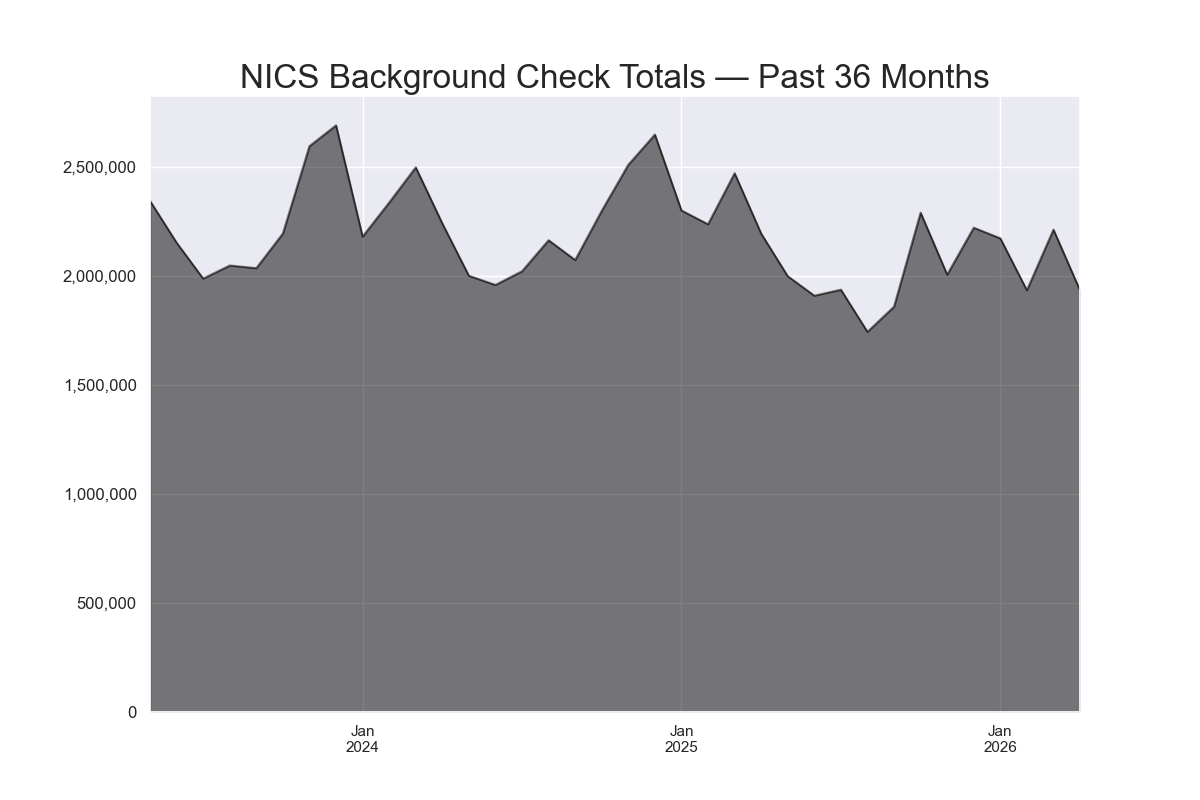
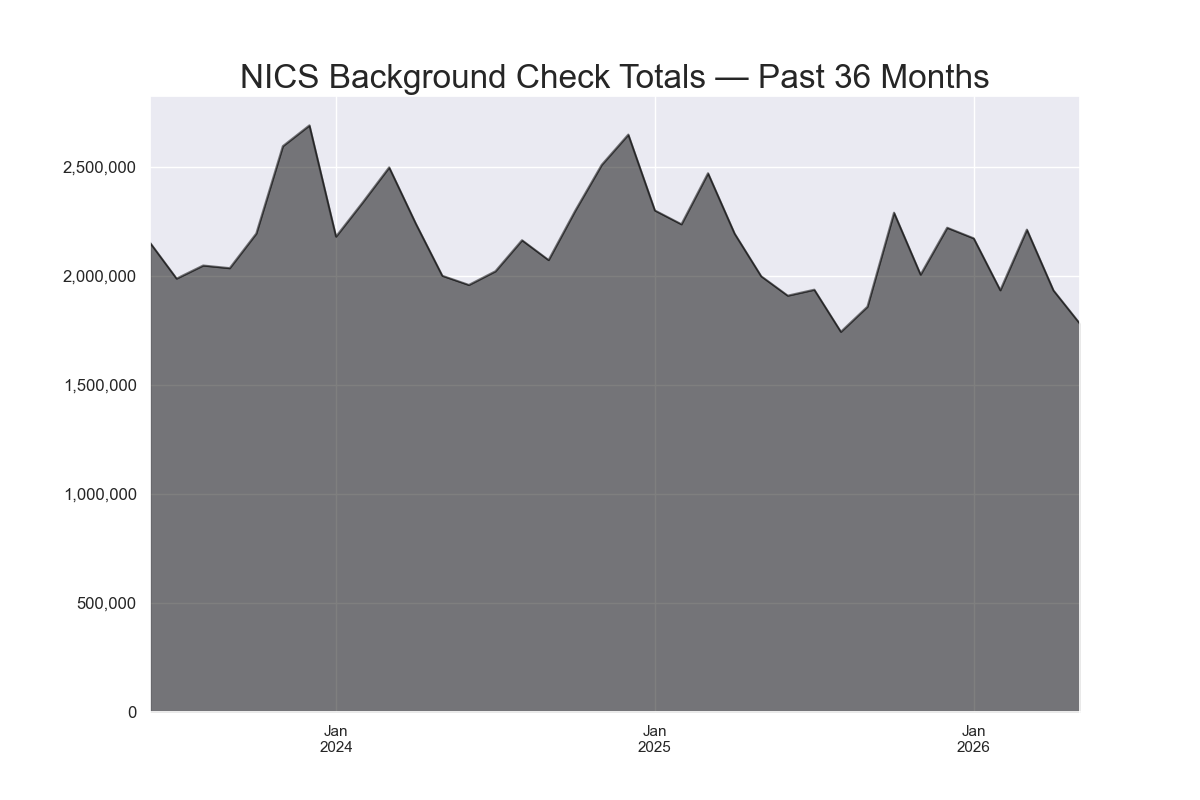
Add May 2026 data and charts

diff --git a/README.md b/README.md
@@ -4,7 +4,7 @@ The data in this repository comes from the [FBI's National Instant Criminal Back
 
 > Mandated by the Brady Handgun Violence Prevention Act of 1993 and launched by the FBI on November 30, 1998, NICS is used by Federal Firearms Licensees (FFLs) to instantly determine whether a prospective buyer is eligible to buy firearms or explosives. Before ringing up the sale, cashiers call in a check to the FBI or to other designated agencies to ensure that each customer does not have a criminal record or isn’t otherwise ineligible to make a purchase. More than 100 million such checks have been made in the last decade, leading to more than 700,000 denials.
 
-The FBI provides data on the number of firearm checks by month, state, and type — [but as a PDF](https://www.fbi.gov/file-repository/nics_firearm_checks_-_month_year_by_state_type.pdf/view). The code in this GitHub repository downloads that PDF, parses it, and produces a spreadsheet/CSV of the data. [__Click here to download the data__](data/nics-firearm-background-checks.csv?raw=true), which currently covers November 1998 – April 2026.
+The FBI provides data on the number of firearm checks by month, state, and type — [but as a PDF](https://www.fbi.gov/file-repository/nics_firearm_checks_-_month_year_by_state_type.pdf/view). The code in this GitHub repository downloads that PDF, parses it, and produces a spreadsheet/CSV of the data. [__Click here to download the data__](data/nics-firearm-background-checks.csv?raw=true), which currently covers November 1998 – May 2026.
 
 ## Notes On The Data
 